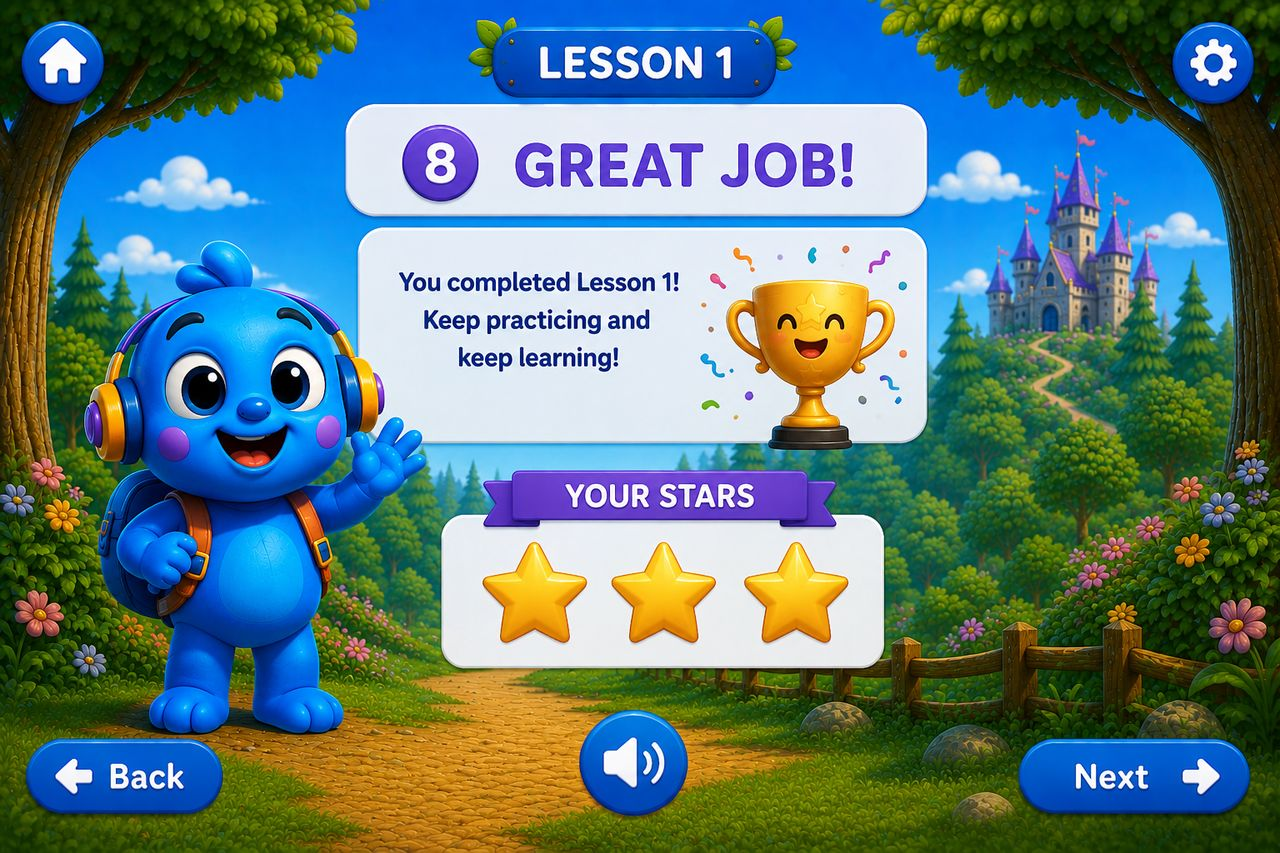
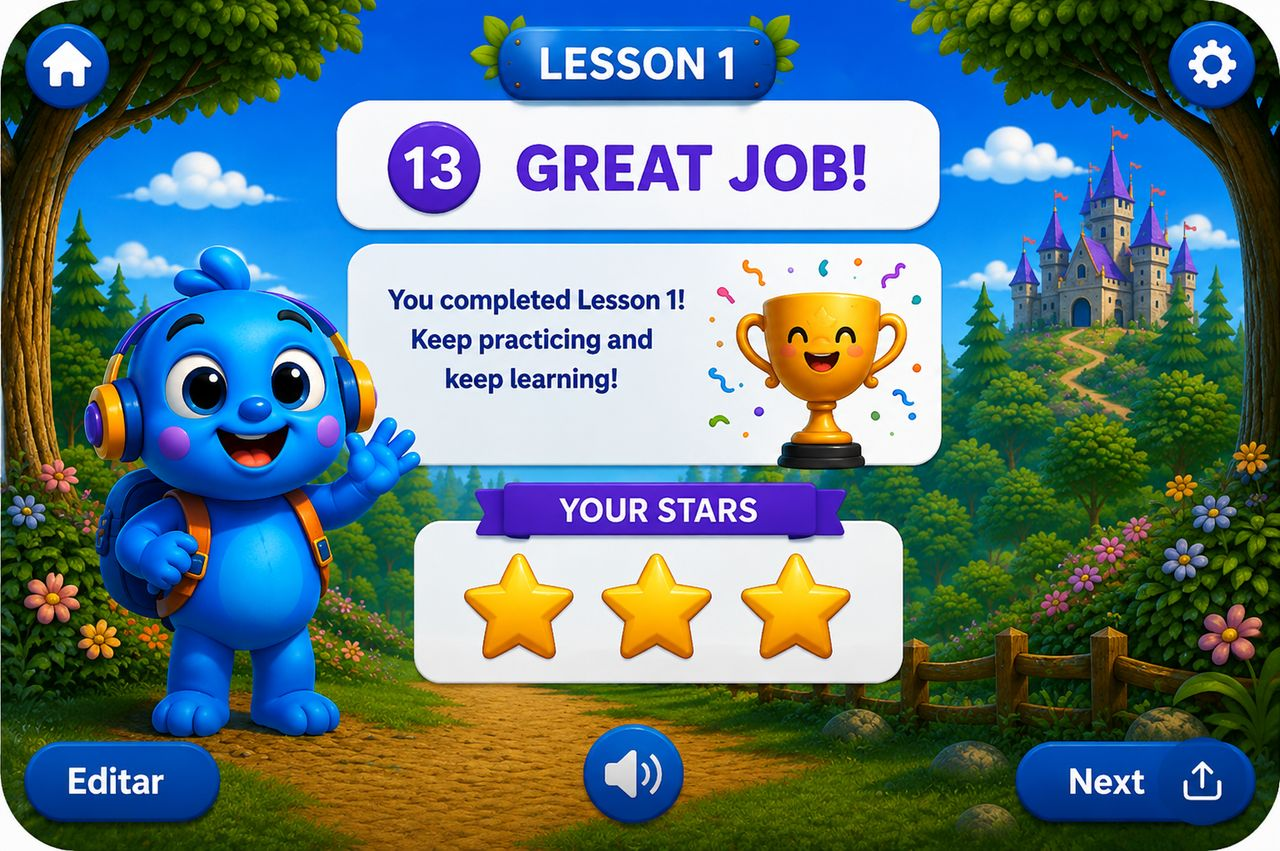
Use the real Canva artwork for the quiz, unscramble, and finale screens
Swap the hand-built CSS card recreation for the actual designed
images (downloaded from the shared Drive folder), matching the
requirement that the artwork stay pixel-identical to the source —
only transparent buttons and the unscramble word tiles are added on
top, the same pattern used by every other screen in the lesson.

- Quiz rounds 7/8/9 now use the real background per question, with
  three invisible hotspots positioned over the drawn A/B/C pills
- Unscramble rounds 11/12 use the real blank-slot template; the
  tap-to-place tiles are centered inside the drawn sentence box and
  tile row rather than reusing the vocabulary screen background
- The finale screen now uses the actual "13 GREAT JOB!" artwork
  instead of a CSS-patched "8" badge
- Fixed quizAnswer(), which still referenced the deleted .quiz-body
  wrapper and correct-mark/wrong-mark classes and threw on click
- Made the Lesson-complete celebration bypass the celebrate()
  debounce so it always fires even right after another celebration

diff --git a/upfront-kids.html b/upfront-kids.html
@@ -140,66 +140,22 @@
   .mem-card.flip .mem-face,.mem-card.matched .mem-face{opacity:1;transform:scale(1)}
   .mem-card.listening-lock{pointer-events:none}
 
-  /* ── quiz / unscramble cards (step 7) ────────────────── */
-  .quiz-header{
-    position:absolute;left:11%;top:11%;width:70%;
-    background:#fff;border-radius:18px;
-    box-shadow:0 8px 20px rgba(0,0,0,.18);
-    padding:1.6% 2.6%;display:flex;flex-direction:column;gap:1.4%;
-  }
-  .quiz-header-row{display:flex;align-items:center;gap:3%}
-  .quiz-badge{
-    width:11%;aspect-ratio:1;border-radius:50%;flex-shrink:0;
-    background:#7c3aed;color:#fff;display:flex;align-items:center;justify-content:center;
-    font-weight:800;font-size:clamp(13px,2.4vw,20px);
-  }
-  .quiz-badge.pink{background:#f43f5e}
-  .quiz-badge.patch-badge{aspect-ratio:1;display:flex;align-items:center;justify-content:center;font-size:clamp(13px,2.4vw,20px)}
-  .quiz-title{font-weight:800;color:#4c1d95;font-size:clamp(15px,2.8vw,24px);text-transform:uppercase;letter-spacing:.4px}
-  .quiz-sub{background:#eef1f8;border-radius:12px;padding:1.8% 3%;color:#1e3a5f;font-weight:700;font-size:clamp(10px,1.8vw,14px)}
-
-  .quiz-body{
-    position:absolute;left:11%;top:26.5%;width:78%;height:49%;
-    background:#fff;border-radius:20px;box-shadow:0 10px 26px rgba(0,0,0,.2);
-    display:flex;align-items:center;padding:2.2%;gap:3%;
-  }
-  .quiz-avatar{width:22%;aspect-ratio:1;border-radius:50%;object-fit:cover;flex-shrink:0;box-shadow:0 4px 10px rgba(0,0,0,.15)}
-  .quiz-question{flex:1;font-weight:700;color:#1e3a5f;font-size:clamp(11px,2vw,17px);line-height:1.35}
-  .quiz-options{display:flex;flex-direction:column;gap:4%;width:36%;flex-shrink:0}
-  .quiz-opt{
-    border:none;border-radius:14px;padding:5% 6%;color:#fff;
-    font-family:inherit;font-weight:800;font-size:clamp(10px,1.9vw,15px);
-    text-align:left;cursor:pointer;box-shadow:0 4px 10px rgba(0,0,0,.15);
-    transition:transform .12s;-webkit-tap-highlight-color:transparent;
-  }
-  .quiz-opt:active{transform:scale(.96)}
-  .quiz-opt.green{background:#22c55e}
-  .quiz-opt.purple{background:#7c3aed}
-  .quiz-opt.orange{background:#f97316}
-  .quiz-opt.correct-mark{box-shadow:0 0 0 3px #fff,0 0 0 6px #16a34a}
-  .quiz-opt.wrong-mark{animation:shake .4s ease}
-
-  .unscr-body{
-    position:absolute;left:11%;top:26.5%;width:78%;height:49%;
-    background:#fff;border-radius:20px;box-shadow:0 10px 26px rgba(0,0,0,.2);
-    display:flex;flex-direction:column;justify-content:center;gap:6%;padding:4% 5%;
-  }
-  .unscr-sentence{
-    flex:1.2;background:#eef1f8;border-radius:16px;
+  /* ── unscramble tiles (step 7, overlaid on the real artwork) ── */
+  .unscr-sentence,.unscr-bank{
+    position:absolute;
     display:flex;align-items:center;justify-content:center;
-    gap:2.5%;flex-wrap:wrap;padding:2%;
+    gap:2.5%;flex-wrap:wrap;padding:1%;
   }
-  .unscr-bank{flex:1;display:flex;align-items:center;justify-content:center;gap:3%;flex-wrap:wrap}
   .unscr-slot-chip,.unscr-tile{
     border-radius:12px;font-family:inherit;font-weight:800;
-    font-size:clamp(12px,2.4vw,19px);padding:3% 5%;cursor:pointer;
+    font-size:clamp(12px,2.2vw,18px);padding:3% 5%;cursor:pointer;
     -webkit-tap-highlight-color:transparent;transition:transform .12s;
   }
   .unscr-slot-chip:active,.unscr-tile:active{transform:scale(.94)}
   .unscr-slot-chip{background:#4189ff;color:#fff;border:none;box-shadow:0 4px 8px rgba(0,0,0,.15)}
   .unscr-tile{background:#fff;color:#1e3a5f;border:3px solid #4189ff;box-shadow:0 3px 6px rgba(0,0,0,.1)}
   .unscr-slot-empty{
-    display:inline-block;width:22%;aspect-ratio:2.4/1;
+    display:inline-block;width:20%;height:55%;
     border:3px dashed #b9c4dd;border-radius:12px;
   }
 
@@ -375,79 +331,43 @@
   </div>
 
   <!-- ══ LESSON 1 · STEP 7 — QUIZ (3 rounds) ══ -->
-  <div class="screen" id="l1_7a" style="background-image:url('kids-assets/lesson1-step2-vocabulary.jpg')">
-    <div class="quiz-header">
-      <div class="quiz-header-row"><span class="quiz-badge">7</span><span class="quiz-title">Quiz</span></div>
-      <div class="quiz-sub">Choose the correct answer.</div>
-    </div>
-    <div class="quiz-body">
-      <img class="quiz-avatar" src="kids-assets/face-buddy.jpg" alt="">
-      <div class="quiz-question">1. Which word do we use when we greet a friend in a casual way?</div>
-      <div class="quiz-options">
-        <button class="quiz-opt green" onclick="quizAnswer(false,this)">A) Hello</button>
-        <button class="quiz-opt purple" onclick="quizAnswer(true,this)">B) Hi</button>
-        <button class="quiz-opt orange" onclick="quizAnswer(false,this)">C) Goodbye</button>
-      </div>
-    </div>
+  <div class="screen" id="l1_7a" style="background-image:url('kids-assets/lesson1-step7a-quiz1.jpg')">
     <button class="hot" style="left:1%;top:1.5%;width:8%;height:11.5%" onclick="showScreen('map')" aria-label="Home"></button>
     <button class="hot" style="left:91%;top:1.5%;width:8%;height:11.5%" onclick="openSettings()" aria-label="Settings"></button>
     <button class="hot" style="left:2%;top:87%;width:16%;height:11%" onclick="showScreen('l1_6')" aria-label="Back"></button>
     <button class="hot" style="left:82%;top:87%;width:16%;height:11%" onclick="showScreen('l1_7b')" aria-label="Next"></button>
     <button class="hot" style="left:45%;top:80.5%;width:9%;height:13%" onclick="speak('Which word do we use when we greet a friend in a casual way?')" aria-label="Play audio"></button>
+    <button class="hot" style="left:60.6%;top:45.8%;width:22.4%;height:8.2%" onclick="quizAnswer(false,this)" aria-label="Option A Hello"></button>
+    <button class="hot" style="left:60.7%;top:55.6%;width:22.3%;height:7.8%" onclick="quizAnswer(true,this)" aria-label="Option B Hi"></button>
+    <button class="hot" style="left:60.6%;top:65.3%;width:22.4%;height:8.1%" onclick="quizAnswer(false,this)" aria-label="Option C Goodbye"></button>
   </div>
 
-  <div class="screen" id="l1_7b" style="background-image:url('kids-assets/lesson1-step2-vocabulary.jpg')">
-    <div class="quiz-header">
-      <div class="quiz-header-row"><span class="quiz-badge">8</span><span class="quiz-title">Quiz</span></div>
-      <div class="quiz-sub">Choose the correct answer.</div>
-    </div>
-    <div class="quiz-body">
-      <img class="quiz-avatar" src="kids-assets/face-buddy.jpg" alt="">
-      <div class="quiz-question">2. Which word do we use when we meet someone?</div>
-      <div class="quiz-options">
-        <button class="quiz-opt green" onclick="quizAnswer(true,this)">A) Hello</button>
-        <button class="quiz-opt purple" onclick="quizAnswer(false,this)">B) Hi</button>
-        <button class="quiz-opt orange" onclick="quizAnswer(false,this)">C) Goodbye</button>
-      </div>
-    </div>
+  <div class="screen" id="l1_7b" style="background-image:url('kids-assets/lesson1-step7b-quiz2.jpg')">
     <button class="hot" style="left:1%;top:1.5%;width:8%;height:11.5%" onclick="showScreen('map')" aria-label="Home"></button>
     <button class="hot" style="left:91%;top:1.5%;width:8%;height:11.5%" onclick="openSettings()" aria-label="Settings"></button>
     <button class="hot" style="left:2%;top:87%;width:16%;height:11%" onclick="showScreen('l1_7a')" aria-label="Back"></button>
     <button class="hot" style="left:82%;top:87%;width:16%;height:11%" onclick="showScreen('l1_7c')" aria-label="Next"></button>
     <button class="hot" style="left:45%;top:80.5%;width:9%;height:13%" onclick="speak('Which word do we use when we meet someone?')" aria-label="Play audio"></button>
+    <button class="hot" style="left:60.6%;top:45.8%;width:22.5%;height:8.1%" onclick="quizAnswer(true,this)" aria-label="Option A Hello"></button>
+    <button class="hot" style="left:60.7%;top:55.6%;width:22.3%;height:7.8%" onclick="quizAnswer(false,this)" aria-label="Option B Hi"></button>
+    <button class="hot" style="left:60.7%;top:65.3%;width:22.3%;height:7.8%" onclick="quizAnswer(false,this)" aria-label="Option C Goodbye"></button>
   </div>
 
-  <div class="screen" id="l1_7c" style="background-image:url('kids-assets/lesson1-step2-vocabulary.jpg')">
-    <div class="quiz-header">
-      <div class="quiz-header-row"><span class="quiz-badge">9</span><span class="quiz-title">Quiz</span></div>
-      <div class="quiz-sub">Choose the correct answer.</div>
-    </div>
-    <div class="quiz-body">
-      <img class="quiz-avatar" src="kids-assets/face-buddy.jpg" alt="">
-      <div class="quiz-question">3. Which word do we use when we leave someone at the end of the day?</div>
-      <div class="quiz-options">
-        <button class="quiz-opt green" onclick="quizAnswer(false,this)">A) Hello</button>
-        <button class="quiz-opt purple" onclick="quizAnswer(false,this)">B) Hi</button>
-        <button class="quiz-opt orange" onclick="quizAnswer(true,this)">C) Goodbye</button>
-      </div>
-    </div>
+  <div class="screen" id="l1_7c" style="background-image:url('kids-assets/lesson1-step7c-quiz3.jpg')">
     <button class="hot" style="left:1%;top:1.5%;width:8%;height:11.5%" onclick="showScreen('map')" aria-label="Home"></button>
     <button class="hot" style="left:91%;top:1.5%;width:8%;height:11.5%" onclick="openSettings()" aria-label="Settings"></button>
     <button class="hot" style="left:2%;top:87%;width:16%;height:11%" onclick="showScreen('l1_7b')" aria-label="Back"></button>
     <button class="hot" style="left:82%;top:87%;width:16%;height:11%" onclick="showScreen('l1_7d')" aria-label="Next"></button>
     <button class="hot" style="left:45%;top:80.5%;width:9%;height:13%" onclick="speak('Which word do we use when we leave someone at the end of the day?')" aria-label="Play audio"></button>
+    <button class="hot" style="left:60.6%;top:45.9%;width:22.5%;height:8.1%" onclick="quizAnswer(false,this)" aria-label="Option A Hello"></button>
+    <button class="hot" style="left:60.7%;top:55.7%;width:22.3%;height:7.7%" onclick="quizAnswer(false,this)" aria-label="Option B Hi"></button>
+    <button class="hot" style="left:60.6%;top:65.3%;width:22.4%;height:8%" onclick="quizAnswer(true,this)" aria-label="Option C Goodbye"></button>
   </div>
 
   <!-- ══ LESSON 1 · STEP 7 — UNSCRAMBLE (2 rounds) ══ -->
-  <div class="screen" id="l1_7d" style="background-image:url('kids-assets/lesson1-step2-vocabulary.jpg')">
-    <div class="quiz-header">
-      <div class="quiz-header-row"><span class="quiz-badge pink">11</span><span class="quiz-title">Complete</span></div>
-      <div class="quiz-sub">Put the words in the right order.</div>
-    </div>
-    <div class="unscr-body">
-      <div class="unscr-sentence" id="l1_7d_slots"></div>
-      <div class="unscr-bank" id="l1_7d_bank"></div>
-    </div>
+  <div class="screen" id="l1_7d" style="background-image:url('kids-assets/lesson1-step7d-unscramble1.jpg')">
+    <div class="unscr-sentence" id="l1_7d_slots" style="left:22.6%;top:31.15%;width:50.65%;height:21.58%"></div>
+    <div class="unscr-bank" id="l1_7d_bank" style="left:22.6%;top:56.93%;width:50.65%;height:14.55%"></div>
     <button class="hot" style="left:1%;top:1.5%;width:8%;height:11.5%" onclick="showScreen('map')" aria-label="Home"></button>
     <button class="hot" style="left:91%;top:1.5%;width:8%;height:11.5%" onclick="openSettings()" aria-label="Settings"></button>
     <button class="hot" style="left:2%;top:87%;width:16%;height:11%" onclick="showScreen('l1_7c')" aria-label="Back"></button>
@@ -455,15 +375,9 @@
     <button class="hot" style="left:45%;top:80.5%;width:9%;height:13%" onclick="speak('Put the words in order. Hello Buddy!')" aria-label="Play audio"></button>
   </div>
 
-  <div class="screen" id="l1_7e" style="background-image:url('kids-assets/lesson1-step2-vocabulary.jpg')">
-    <div class="quiz-header">
-      <div class="quiz-header-row"><span class="quiz-badge pink">12</span><span class="quiz-title">Complete</span></div>
-      <div class="quiz-sub">Put the words in the right order.</div>
-    </div>
-    <div class="unscr-body">
-      <div class="unscr-sentence" id="l1_7e_slots"></div>
-      <div class="unscr-bank" id="l1_7e_bank"></div>
-    </div>
+  <div class="screen" id="l1_7e" style="background-image:url('kids-assets/lesson1-step7e-unscramble2.jpg')">
+    <div class="unscr-sentence" id="l1_7e_slots" style="left:22.6%;top:31.15%;width:50.65%;height:21.58%"></div>
+    <div class="unscr-bank" id="l1_7e_bank" style="left:22.6%;top:56.93%;width:50.65%;height:14.55%"></div>
     <button class="hot" style="left:1%;top:1.5%;width:8%;height:11.5%" onclick="showScreen('map')" aria-label="Home"></button>
     <button class="hot" style="left:91%;top:1.5%;width:8%;height:11.5%" onclick="openSettings()" aria-label="Settings"></button>
     <button class="hot" style="left:2%;top:87%;width:16%;height:11%" onclick="showScreen('l1_7d')" aria-label="Back"></button>
@@ -473,7 +387,6 @@
 
   <!-- ══ LESSON 1 · STEP 8 — COMPLETE ══ -->
   <div class="screen" id="l1_8" style="background-image:url('kids-assets/lesson1-step8-complete.jpg')">
-    <span class="quiz-badge patch-badge" style="left:30%;top:14.5%;width:8%;position:absolute">13</span>
     <button class="hot" style="left:1%;top:1.5%;width:8%;height:11.5%" onclick="showScreen('map')" aria-label="Home"></button>
     <button class="hot" style="left:91%;top:1.5%;width:8%;height:11.5%" onclick="openSettings()" aria-label="Settings"></button>
     <button class="hot" style="left:2%;top:87%;width:16%;height:11%" onclick="showScreen('l1_7e')" aria-label="Back"></button>
@@ -505,7 +418,7 @@ function showScreen(id){
   document.getElementById(id).classList.add('active');
   if(id==='l1_6') initMemory();
   if(id==='l1_7d' || id==='l1_7e') initUnscramble(id);
-  if(id==='l1_8') celebrate('🎉 Lesson 1 complete!');
+  if(id==='l1_8') celebrate('🎉 Lesson 1 complete!', true);
   closeSettings();
 }
 
@@ -566,13 +479,13 @@ function playChime(){
     });
   }catch(e){}
 }
-function celebrate(message){
-  if(celebrateBusy) return;
+function celebrate(message, force){
+  if(celebrateBusy && !force) return;
   celebrateBusy = true;
   spawnConfetti();
   playChime();
   if(message) toast(message, 2200);
-  setTimeout(()=>{ celebrateBusy = false; }, 900);
+  setTimeout(()=>{ celebrateBusy = false; }, 400);
 }
 
 // ═══ AUDIO (Web Speech API) ═══
@@ -786,17 +699,17 @@ function flipMemCard(idx, el){
 
 // ═══ STEP 7 · QUIZ ═══
 function quizAnswer(correct, el){
-  const card = el.closest('.quiz-body');
-  card.querySelectorAll('.quiz-opt').forEach(e=>e.classList.remove('correct-mark','wrong-mark'));
+  const screen = el.closest('.screen');
+  screen.querySelectorAll('.hot.ok, .hot.bad').forEach(e=>e.classList.remove('ok','bad'));
   if(correct){
-    el.classList.add('correct-mark');
+    el.classList.add('ok');
     speak('Correct!');
     celebrate('🌟 Correct!');
   } else {
-    el.classList.add('wrong-mark');
+    el.classList.add('bad');
     speak('Try again');
     toast('🙂 Try again!');
-    setTimeout(()=>el.classList.remove('wrong-mark'), 500);
+    setTimeout(()=>el.classList.remove('bad'), 500);
   }
 }
 
